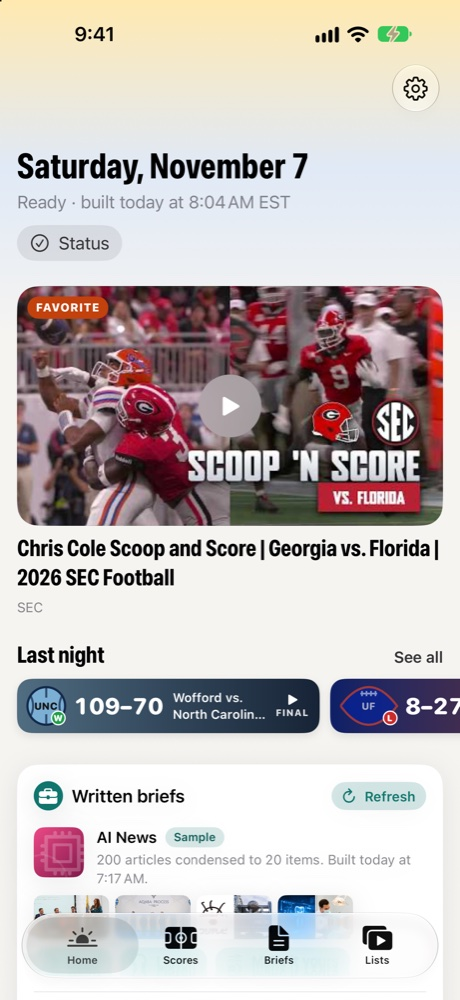
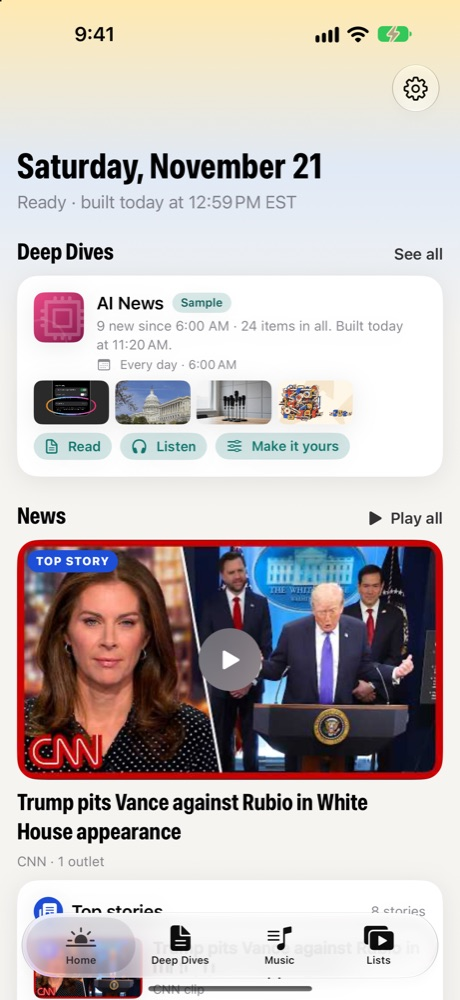
EarlyWire card: Deep Dives wording and the new Home screen

diff --git a/index.html b/index.html
@@ -49,7 +49,7 @@
             <img class="icon icon-square" src="/assets/icons/earlywire.png" alt="" width="64" height="64">
             <h3>EarlyWire</h3>
             <p class="tag">Your morning, ready before you are.</p>
-            <p>Last night's scores and highlights, news videos, new music and written briefs, built overnight on your own device and waiting when you wake.</p>
+            <p>Deep Dives on the topics you follow, news videos, new music and your own video lists, built overnight on your own device and waiting when you wake.</p>
             <ul class="chips"><li>iPhone</li><li>iPad</li><li>Mac</li><li>In testing</li></ul>
             <span class="more">See it in action <span aria-hidden="true">&rarr;</span></span>
           </div>
